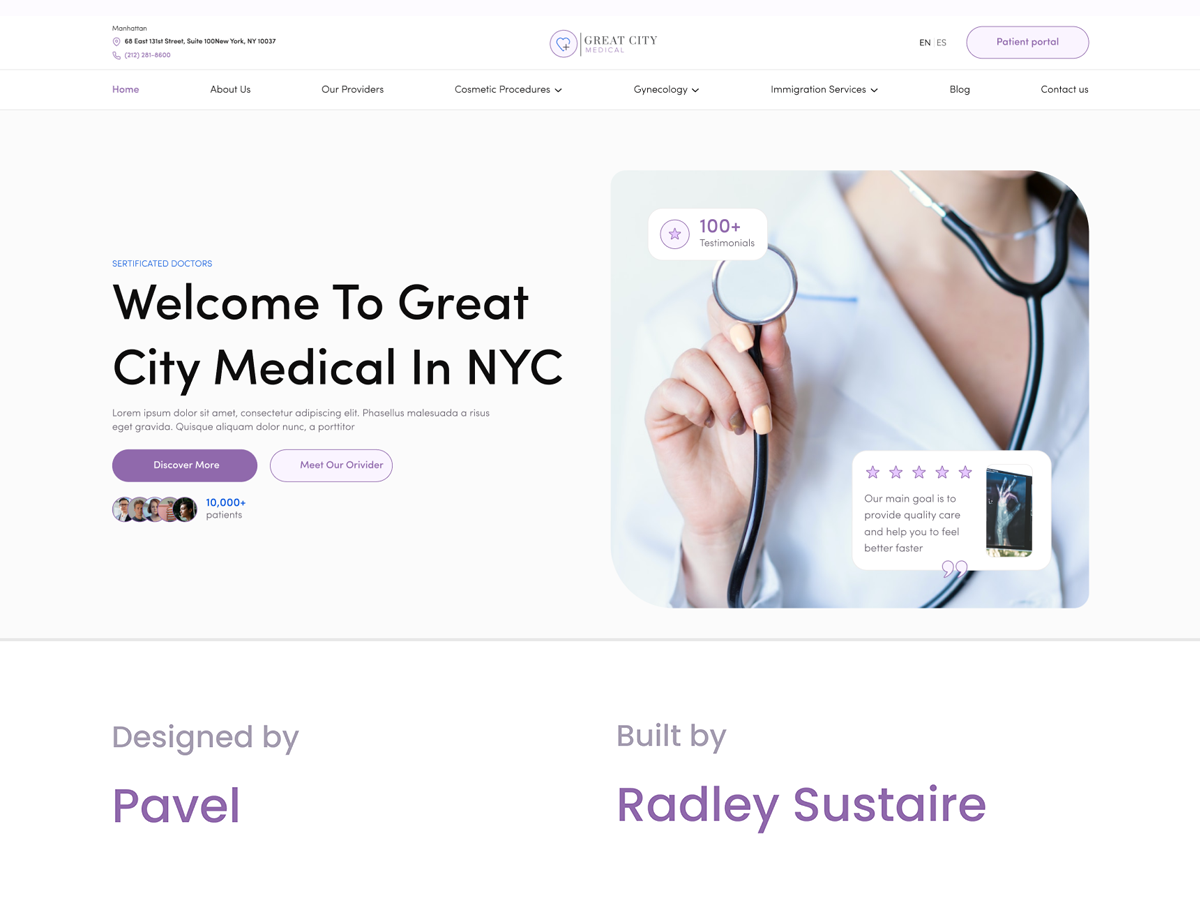
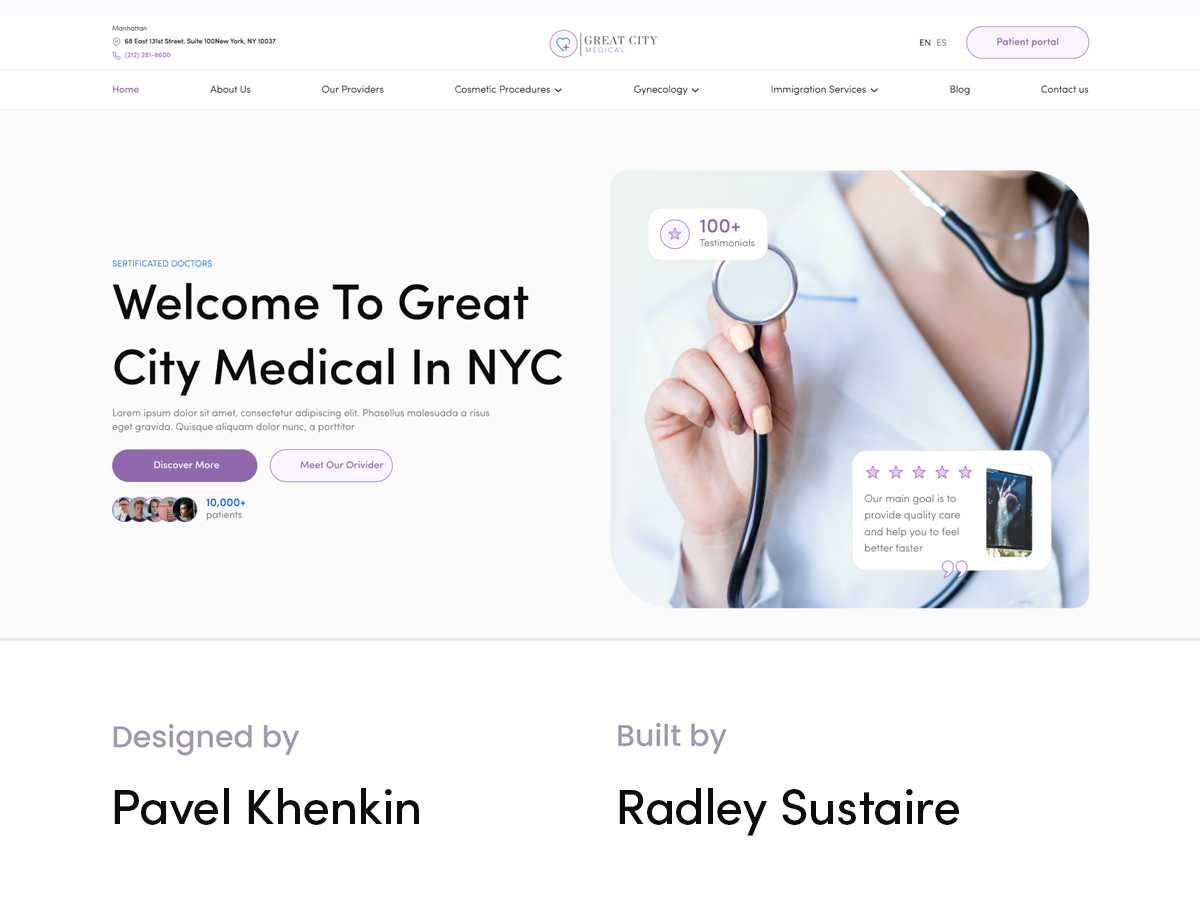
Updated credits

Changed region(s): [[0.4933, 0.8711, 0.8325, 0.9333], [0.0925, 0.8711, 0.3392, 0.9333]]

diff --git a/readme.md b/readme.md
@@ -3,7 +3,7 @@ Great City Medical Theme
 
 A custom WordPress theme for Great City Medical.
 
-Built by Radley Sustaire, using PHPStorm. Designed by Pavel, using Figma.
+Built by Radley Sustaire, using PHPStorm. Designed by Pavel Khenkin, using Figma.
 
 ![Theme Screenshot](screenshot.png)
 
